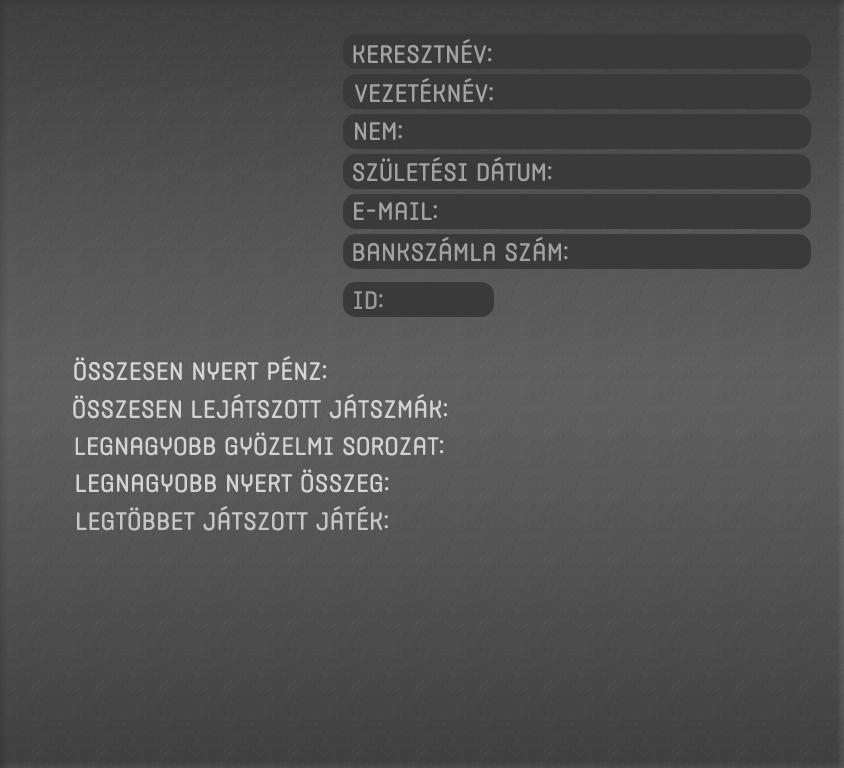
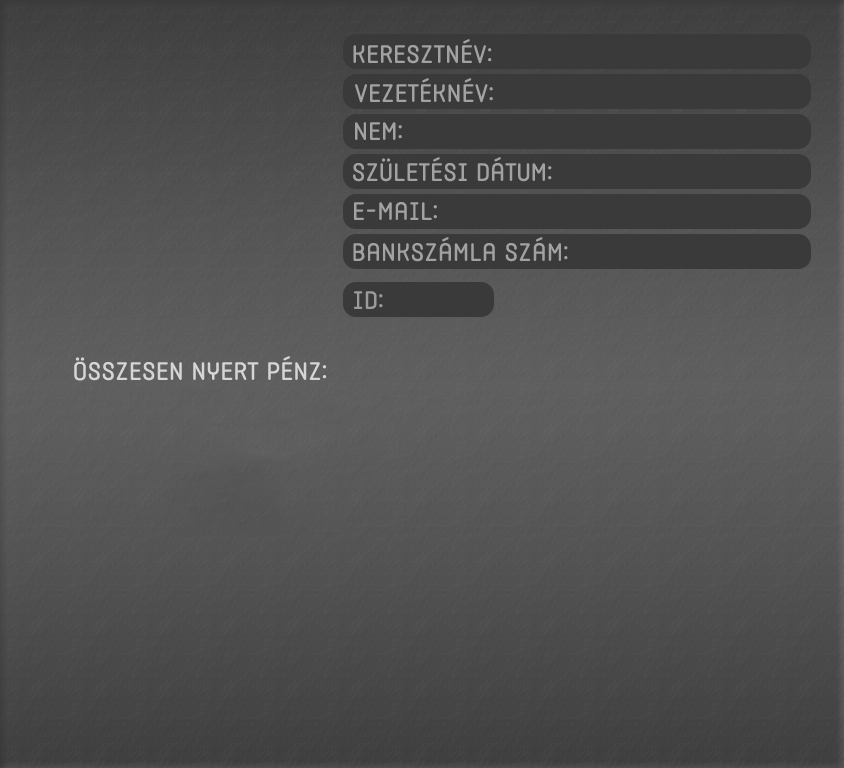
Profil oldal szerkesztés

Changed region(s): [[0.0924, 0.5, 0.5237, 0.6875]]

diff --git a/SFM_Casino_v1/src/main/java/hu/unideb/inf/controller/CasinoProfileController.java b/SFM_Casino_v1/src/main/java/hu/unideb/inf/controller/CasinoProfileController.java
@@ -54,11 +54,6 @@ public class CasinoProfileController implements Initializable {
     void MenuKijelentkezesButton(ActionEvent event) throws IOException {
         global.LoadScene(event, getID.getText(), "Login");
     }
-
-    @FXML
-    void MenuRouletteButton(ActionEvent event) throws IOException {
-        global.LoadScene(event, getID.getText(), "Roulette");
-    }
     
     @FXML
     void MenuBJButton(ActionEvent event) throws IOException {
@@ -101,7 +96,7 @@ public class CasinoProfileController implements Initializable {
     }
     
       @FXML
-    private Label KNev, VNev, Nem, Datum, Mail, Bankszam, AccID, ONYP, OLJ, LGYS, LNYO, LJJ;
+    private Label KNev, VNev, Nem, Datum, Mail, Bankszam, AccID, ONYP;
 
     @FXML
     private LineChart<String, Number> MoneyChart;
@@ -147,7 +142,7 @@ public class CasinoProfileController implements Initializable {
                 Kellekek[1] = ""+a.getKellekek1();
                 Kellekek[2] = ""+a.getKellekek2();
                 Kellekek[3] = ""+a.getKellekek3();
-                //KNev, VNev, Nem, Datum, Mail, Bankszam, AccID
+                //KNev, VNev, Nem, Datum, Mail, Bankszam, AccID, ONYP
                 KNev.setText(a.getKnev());
                 VNev.setText(a.getVnev());
                 Nem.setText(a.getNem());
@@ -155,6 +150,7 @@ public class CasinoProfileController implements Initializable {
                 Mail.setText(a.getEmail());
                 Bankszam.setText(a.getCreditCardNumber());
                 AccID.setText(a.getSetID());
+                ONYP.setText(""+global.getOssznyeremeny(a.getNyereseg()));
 
                 maxlogin = a.getLogin_db();
                 int[] nyeresegek = new int[maxlogin+1];
